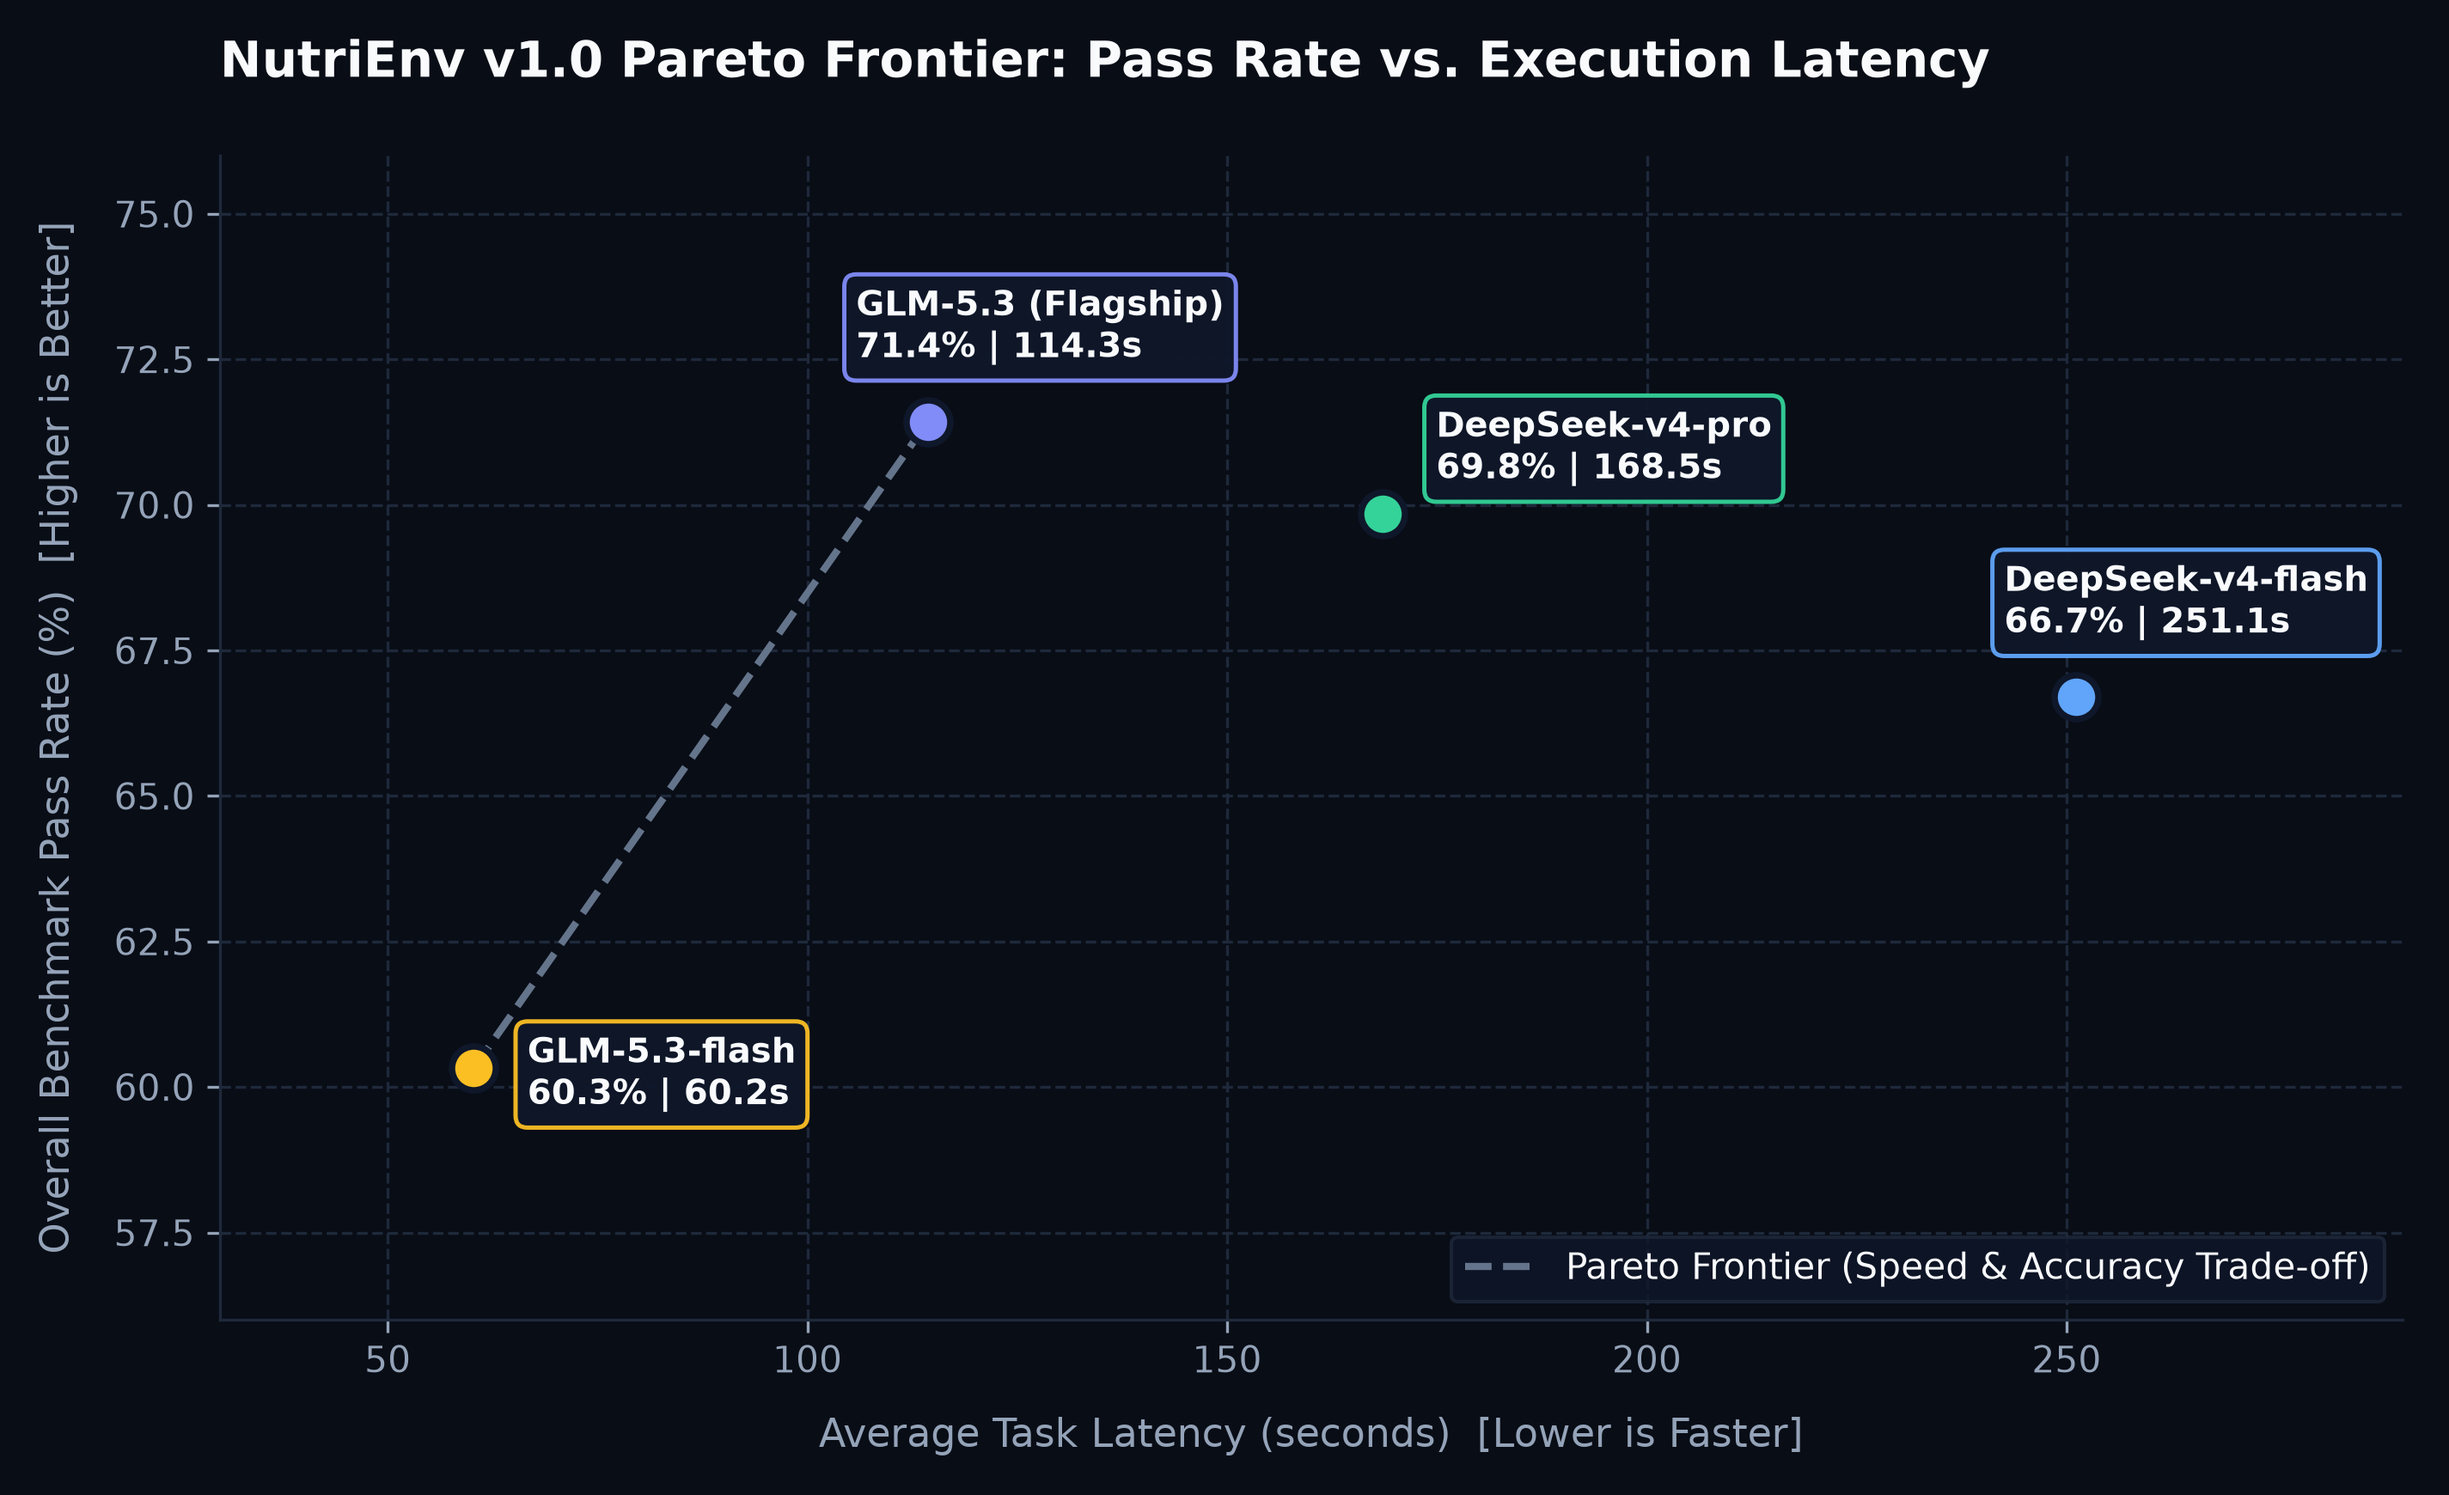
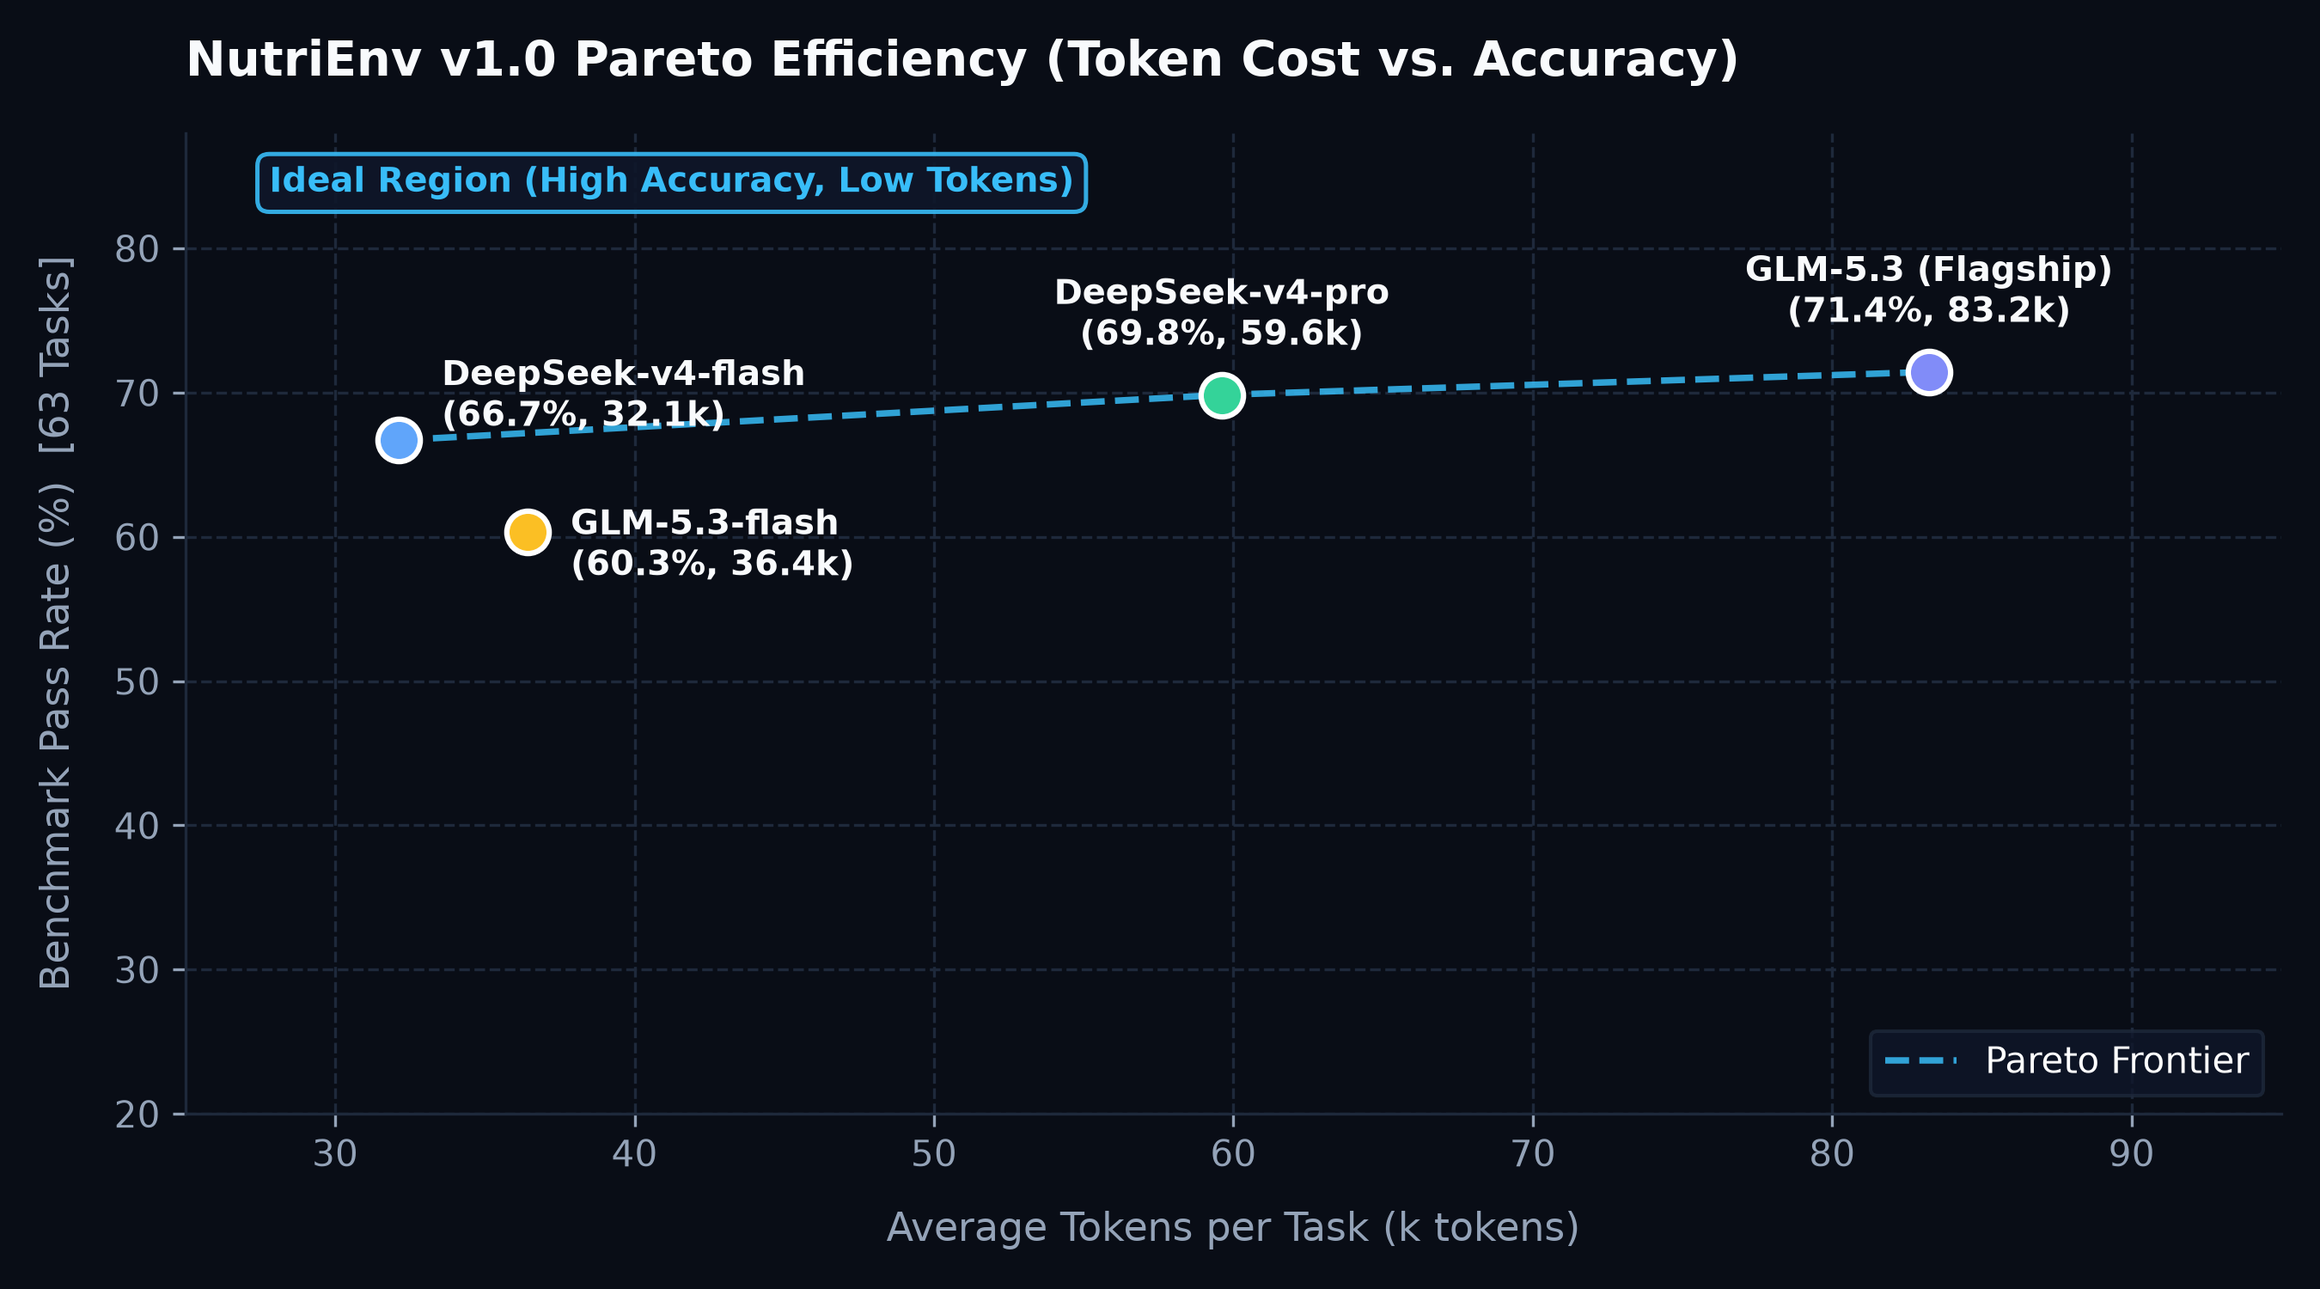
docs(eval): update pareto chart to token efficiency and add volcano engine note

diff --git a/scripts/render_benchmark_charts.py b/scripts/render_benchmark_charts.py
@@ -10,10 +10,10 @@ text_white = '#F8FAFC'
 text_muted = '#94A3B8'
 
 models = [
-    ('GLM-5.3 (Flagship)', 'reports/benchmark_ark_glm-5.3_v1.0.json', '#818CF8'),       # Indigo
-    ('DeepSeek-v4-pro', 'reports/benchmark_ark_deepseek-v4-pro_v1.0.json', '#34D399'),  # Emerald
-    ('DeepSeek-v4-flash', 'reports/benchmark_ark_deepseek-v4-flash_v1.0.json', '#60A5FA'),# Sky Blue
-    ('GLM-5.3-flash', 'reports/benchmark_ark_glm-5.3-flash_v1.0.json', '#FBBF24'),      # Amber
+    ('GLM-5.3 (Flagship)', 'reports/benchmark_ark_glm-5.3_v1.0.json', '#818CF8'),              # Indigo
+    ('DeepSeek-v4-pro', 'reports/benchmark_ark_deepseek-v4-pro_v1.0.json', '#34D399'),         # Emerald
+    ('DeepSeek-v4-flash', 'reports/benchmark_ark_deepseek-v4-flash_v1.0.json', '#60A5FA'),       # Sky Blue
+    ('GLM-5.3-flash', 'reports/benchmark_ark_glm-5.3-flash_v1.0.json', '#FBBF24'),             # Amber
 ]
 
 data = []
@@ -26,33 +26,35 @@ for name, p, color in models:
         'passed': d['passed_tasks'],
         'total': d['total_tasks'],
         'latency': d['overall_avg_time_seconds'],
+        'tokens_k': d['overall_avg_tokens_per_task'] / 1000.0,
+        'total_tokens': d['overall_total_tokens'],
+        'avg_steps': d['overall_avg_steps'],
     })
 
-# Sort descending by pass rate
-data.sort(key=lambda x: x['overall'], reverse=False) # for horizontal bar, bottom to top
+# ==========================================
+# Chart 1: Benchmark Headline Pass@1 Leaderboard
+# ==========================================
+bar_data = sorted(data, key=lambda x: x['overall'], reverse=False) # bottom to top
 
-# ==========================================
-# Chart: Benchmark Headline Pass@1 Leaderboard
-# ==========================================
 fig, ax = plt.subplots(figsize=(8.5, 3.8), dpi=300)
 fig.patch.set_facecolor(fig_bg)
 ax.set_facecolor(fig_bg)
 
-y = np.arange(len(data))
+y = np.arange(len(bar_data))
 height = 0.52
 
-bars = ax.barh(y, [m['overall'] for m in data], height=height, 
-               color=[m['color'] for m in data], edgecolor='none', zorder=3)
+bars = ax.barh(y, [m['overall'] for m in bar_data], height=height, 
+               color=[m['color'] for m in bar_data], edgecolor='none', zorder=3)
 
 # Value annotations inside or outside the bar
-for bar, m in zip(bars, data):
+for bar, m in zip(bars, bar_data):
     w = bar.get_width()
     ax.text(w + 1.2, bar.get_y() + bar.get_height() / 2, 
             f"{w:.1f}%  ({m['passed']}/{m['total']})",
             va='center', ha='left', color=text_white, fontsize=10.5, fontweight='bold')
 
 ax.set_yticks(y)
-ax.set_yticklabels([m['name'] for m in data], color=text_white, fontsize=12, fontweight='bold')
+ax.set_yticklabels([m['name'] for m in bar_data], color=text_white, fontsize=12, fontweight='bold')
 ax.set_xlim(0, 85)
 ax.set_xlabel('Benchmark Pass Rate (%)  [63 Tasks]', color=text_muted, fontsize=10.5, labelpad=8)
 
@@ -71,3 +73,83 @@ plt.tight_layout()
 plt.savefig('reports/assets/eval_leaderboard_bars.png', facecolor=fig_bg)
 plt.close()
 print('Pure model leaderboard bar chart saved to reports/assets/eval_leaderboard_bars.png')
+
+# ==========================================
+# Chart 2: Pareto Efficiency Frontier (Tokens vs Pass Rate)
+# ==========================================
+fig, ax = plt.subplots(figsize=(9.0, 5.0), dpi=300)
+fig.patch.set_facecolor(fig_bg)
+ax.set_facecolor(fig_bg)
+
+# Scatter plot each model
+for m in data:
+    ax.scatter(m['tokens_k'], m['overall'], color=m['color'], s=140, zorder=5, edgecolors='white', linewidth=1.5)
+
+# Label positions customized to avoid overlapping cleanly
+offsets = {
+    'DeepSeek-v4-flash': (12, 4, 'left'),
+    'GLM-5.3-flash': (12, -12, 'left'),
+    'DeepSeek-v4-pro': (0, 14, 'center'),
+    'GLM-5.3 (Flagship)': (0, 14, 'center'),
+}
+
+for m in data:
+    cfg = offsets.get(m['name'], (10, 5, 'left'))
+    dx, dy, ha = cfg[0], cfg[1], cfg[2]
+    ax.annotate(
+        f"{m['name']}\n({m['overall']:.1f}%, {m['tokens_k']:.1f}k)",
+        (m['tokens_k'], m['overall']),
+        textcoords="offset points",
+        xytext=(dx, dy),
+        ha=ha,
+        fontsize=9.5,
+        color=text_white,
+        fontweight='bold',
+        zorder=6
+    )
+
+# Compute Pareto Frontier (lower tokens is better [X min], higher pass rate is better [Y max])
+sorted_by_tokens = sorted(data, key=lambda x: x['tokens_k'])
+pareto_points = []
+cur_max_pass = -1.0
+for m in sorted_by_tokens:
+    if m['overall'] > cur_max_pass:
+        pareto_points.append(m)
+        cur_max_pass = m['overall']
+
+px = [p['tokens_k'] for p in pareto_points]
+py = [p['overall'] for p in pareto_points]
+
+ax.plot(px, py, color='#38BDF8', linestyle='--', linewidth=1.8, alpha=0.85, zorder=4, label='Pareto Frontier')
+
+ax.set_xlim(25, 95)
+ax.set_ylim(55, 80)
+ax.set_xlabel('Average Tokens per Task (k tokens)', color=text_muted, fontsize=11, labelpad=10)
+ax.set_ylabel('Benchmark Pass Rate (%)  [63 Tasks]', color=text_muted, fontsize=11, labelpad=10)
+
+ax.xaxis.grid(True, color=grid_color, linestyle='--', linewidth=0.8, zorder=0)
+ax.yaxis.grid(True, color=grid_color, linestyle='--', linewidth=0.8, zorder=0)
+
+ax.spines['top'].set_visible(False)
+ax.spines['right'].set_visible(False)
+ax.spines['left'].set_color(grid_color)
+ax.spines['bottom'].set_color(grid_color)
+ax.tick_params(axis='x', colors=text_muted)
+ax.tick_params(axis='y', colors=text_muted)
+
+# Annotation for top-left ideal direction
+ax.annotate('Ideal Region (High Accuracy, Low Tokens)', 
+            xy=(0.04, 0.94), xycoords='axes fraction',
+            color='#38BDF8', fontsize=9.5, fontweight='bold',
+            bbox=dict(boxstyle="round,pad=0.35", fc=panel_bg, ec='#38BDF8', lw=1.2, alpha=0.9))
+
+ax.set_ylim(20, 88)
+
+plt.title('NutriEnv v1.0 Pareto Efficiency (Token Cost vs. Accuracy)', 
+          color=text_white, fontsize=13.5, fontweight='bold', pad=16, loc='left')
+plt.legend(loc='lower right', facecolor=panel_bg, edgecolor=grid_color, fontsize=10)
+plt.tight_layout()
+plt.savefig('reports/assets/eval_pareto_efficiency.png', facecolor=fig_bg)
+plt.close()
+print('Pareto efficiency chart saved to reports/assets/eval_pareto_efficiency.png')
+

diff --git a/reports/README.md b/reports/README.md
@@ -7,6 +7,8 @@ This directory contains the official evaluation trajectories, metrics, and visua
 ```text
 reports/
 |-- assets/
+|   |-- eval_leaderboard_bars.png               # Official Pass@1 leaderboard horizontal bar chart
+|   |-- eval_pareto_efficiency.png              # Official Token-Efficiency vs Pass Rate Pareto Frontier
 |   +-- radar_v1.0_family.png                   # Official 5-axis capability radar chart
 |-- benchmark_ark_glm-5.3_v1.0.json             # GLM-5.3 (Flagship) evaluation trajectories & metrics
 |-- benchmark_ark_deepseek-v4-pro_v1.0.json     # DeepSeek-v4-pro evaluation trajectories & metrics
@@ -23,4 +25,5 @@ reports/
 | **DeepSeek-v4-flash** | **66.7%** | **42 / 63** | 10.9 | 251.1s | 2/2 (100%) | 5/6 (83.3%) | 7/8 (87.5%) | 8/11 (72.7%) | 20/36 (55.6%) |
 | **GLM-5.3-flash** | **60.3%** | **38 / 63** | 10.9 | 60.2s | 2/2 (100%) | 2/6 (33.3%) | 4/8 (50.0%) | 7/11 (63.6%) | 23/36 (63.9%) |
 
+> **Note**: All models in this benchmark suite were evaluated by invoking model endpoints provided by **Volcano Engine (火山引擎) Agent Plan**.
 Each benchmark JSON includes complete step-by-step tool actions, observations, latency, token usage, and final state validation tags.

diff --git a/README.md b/README.md
@@ -35,7 +35,7 @@ The official NutriEnv v1.0 benchmark consists of 63 curated tasks with audited c
 | 3 | **DeepSeek-v4-flash** | **66.7%** | **42 / 63** | 10.9 | 251.1s | 2/2 (100%) | **5/6 (83.3%)** | **7/8 (87.5%)** | 8/11 (72.7%) | 20/36 (55.6%) |
 | 4 | **GLM-5.3-flash** | **60.3%** | **38 / 63** | **10.9** | **60.2s** | 2/2 (100%) | 2/6 (33.3%) | 4/8 (50.0%) | 7/11 (63.6%) | 23/36 (63.9%) |
 
-> Evaluated on standardized API endpoints across reasoning and lightweight models. Full execution traces, logs, and token metrics are preserved in [`reports/`](./reports/).
+> Evaluated on standardized API endpoints across reasoning and lightweight models (all models were invoked via Volcano Engine / 火山引擎 Agent Plan). Full execution traces, logs, and token metrics are preserved in [`reports/`](./reports/).
 
 ---
 
